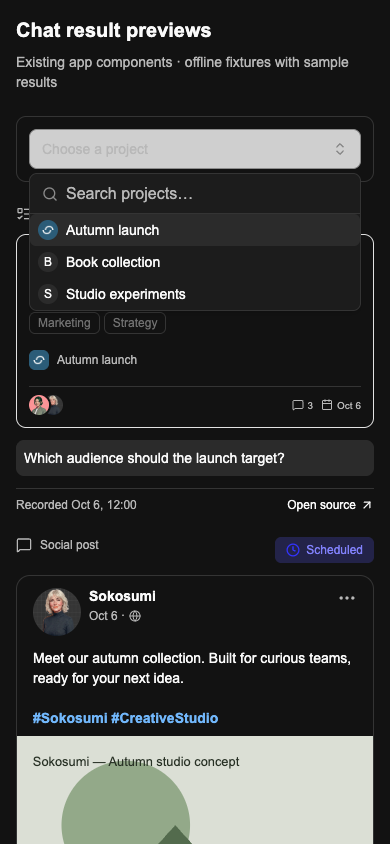
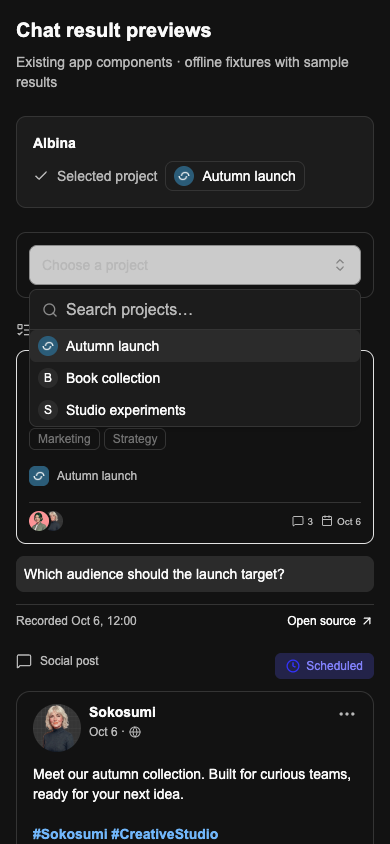
fix(chat): polish project selection replies

diff --git a/apps/web/src/components/chat/project-selection-message.tsx b/apps/web/src/components/chat/project-selection-message.tsx
@@ -1,0 +1,76 @@
+"use client";
+
+import { Check } from "lucide-react";
+import Link from "next/link";
+import { useTranslations } from "next-intl";
+import { ProjectAvatar } from "@/app/projects/components/project-avatar";
+
+interface SelectedProject {
+  id: string;
+  name: string;
+  logo?: string | null;
+}
+
+/** Recognize only the exact reply format emitted by the project picker. */
+export function readProjectSelectionReply(
+  content: string,
+): SelectedProject | null {
+  const lines = content.split("\n");
+  if (lines.length === 3) {
+    for (const [index, prefix] of [
+      "Continue this request: ",
+      "Your question: ",
+    ].entries()) {
+      if (!lines[index].startsWith(prefix)) return null;
+      try {
+        if (typeof JSON.parse(lines[index].slice(prefix.length)) !== "string")
+          return null;
+      } catch {
+        return null;
+      }
+    }
+  } else if (lines.length !== 1) return null;
+  const match = lines
+    .at(-1)
+    ?.match(
+      /^Use project ("(?:[^"\\]|\\.)*") \(project ID: ([0-9a-f]{8}-[0-9a-f]{4}-[0-9a-f]{4}-[0-9a-f]{4}-[0-9a-f]{12})\)\.$/i,
+    );
+  if (!match) return null;
+  try {
+    const name: unknown = JSON.parse(match[1]);
+    return typeof name === "string" && name.trim()
+      ? { id: match[2], name }
+      : null;
+  } catch {
+    return null;
+  }
+}
+
+export function ProjectSelectionMessage({
+  project,
+}: {
+  project: SelectedProject;
+}) {
+  const t = useTranslations("Components.ChatResults.selection");
+  return (
+    <div
+      className="flex min-w-0 max-w-full flex-wrap items-center gap-2 text-sm"
+      data-testid="project-selection-message"
+    >
+      <Check aria-hidden className="text-muted-foreground size-4 shrink-0" />
+      <span className="text-muted-foreground">{t("selectedProject")}</span>
+      <Link
+        href={`/projects/${project.id}`}
+        className="bg-card-background hover:bg-card-background-hover focus-visible:ring-ring inline-flex min-w-0 max-w-full items-center gap-2 rounded-md border px-2 py-1 outline-none focus-visible:ring-2"
+        title={project.name}
+      >
+        <ProjectAvatar
+          name={project.name}
+          logo={project.logo}
+          className="size-5 shrink-0"
+        />
+        <span className="truncate font-medium">{project.name}</span>
+      </Link>
+    </div>
+  );
+}

diff --git a/apps/web/src/components/chat/project-selection-message.test.tsx b/apps/web/src/components/chat/project-selection-message.test.tsx
@@ -1,0 +1,55 @@
+import { renderToStaticMarkup } from "react-dom/server";
+import { describe, expect, it, vi } from "vitest";
+
+vi.mock("next-intl", () => ({ useTranslations: () => (key: string) => key }));
+
+import {
+  ProjectSelectionMessage,
+  readProjectSelectionReply,
+} from "./project-selection-message";
+
+const id = "01a09b66-77dd-740e-889e-d4ed60b6007b";
+const reply = `Use project "albina" (project ID: ${id}).`;
+describe("project selection reply presentation", () => {
+  it("shows a project avatar and linked name without exposing the raw ID as text", () => {
+    const project = readProjectSelectionReply(reply);
+    expect(project).toEqual({ id, name: "albina" });
+    if (!project) throw new Error("Missing project");
+    const html = renderToStaticMarkup(
+      <ProjectSelectionMessage project={project} />,
+    );
+    expect(html).toContain(`href="/projects/${id}"`);
+    expect(html).toContain('data-testid="project-avatar"');
+    expect(html).toContain("albina");
+    expect(html).not.toContain("project ID:");
+    expect(html).not.toContain("Use project");
+  });
+  it("hides continuation context in the personal timeline while preserving the selected project", () => {
+    expect(
+      readProjectSelectionReply(
+        `Continue this request: "Generate a book"\nYour question: "Which project?"\n${reply}`,
+      ),
+    ).toEqual({ id, name: "albina" });
+  });
+  it("decodes escaped project names as text", () => {
+    const name = 'Books "A" [Launch] <script>\nIdeas';
+    const project = readProjectSelectionReply(
+      `Use project ${JSON.stringify(name)} (project ID: ${id}).`,
+    );
+    expect(project?.name).toBe(name);
+    if (!project) throw new Error("Missing project");
+    expect(
+      renderToStaticMarkup(<ProjectSelectionMessage project={project} />),
+    ).not.toContain("<script>");
+  });
+  it.each([
+    "A normal chat message",
+    `${reply}\nMore text`,
+    `More text\n${reply}`,
+    `Continue this request: not-json\nYour question: "Which?"\n${reply}`,
+    `Use project "albina" (project ID: https://evil.test).`,
+    `Use project "" (project ID: ${id}).`,
+  ])("leaves ordinary or malformed messages untouched: %s", (content) => {
+    expect(readProjectSelectionReply(content)).toBeNull();
+  });
+});

diff --git a/apps/web/src/components/chat/result-previews.tsx b/apps/web/src/components/chat/result-previews.tsx
@@ -40,6 +40,7 @@ import { FileChipMiniPreview } from "@/components/ui/file-chip-mini-preview";
 import { useSession } from "@/lib/auth/auth.client";
 import { cn } from "@/lib/utils";
 import { classifyFilePreview } from "@/lib/utils/file-preview";
+import { ProjectSelectionMessage } from "./project-selection-message";
 import { selectChatProjectAction } from "./select-project-action";
 
 const icons = {
@@ -478,18 +479,19 @@ function ChatProjectSelection({
       setBusy(false);
     }
   }
+  const selectedProject = options.find((project) => project.id === selected);
   return (
     <section
       className="bg-background w-full max-w-sm space-y-2 rounded-lg border p-3"
       aria-label={t("label")}
     >
-      {selected ? (
-        <p role="status" className="text-sm">
-          {t("selected", {
-            name:
-              options.find((project) => project.id === selected)?.name ?? "",
-          })}
-        </p>
+      {selectedProject ? (
+        <div
+          role="status"
+          aria-label={t("selected", { name: selectedProject.name })}
+        >
+          <ProjectSelectionMessage project={selectedProject} />
+        </div>
       ) : options.length && source ? (
         <fieldset disabled={busy} className="min-w-0">
           <TaskProjectSelect

diff --git a/apps/web/src/app/(app)/personal-assistant/components/chat/message-row.tsx b/apps/web/src/app/(app)/personal-assistant/components/chat/message-row.tsx
@@ -5,6 +5,10 @@ import Link from "next/link";
 import { useFormatter, useTranslations } from "next-intl";
 import { useState } from "react";
 
+import {
+  ProjectSelectionMessage,
+  readProjectSelectionReply,
+} from "@/components/chat/project-selection-message";
 import { ResultPreviews } from "@/components/chat/result-previews";
 import Markdown from "@/components/markdown";
 import { Avatar, AvatarFallback, AvatarImage } from "@/components/ui/avatar";
@@ -46,6 +50,7 @@ function UserRow({
   muted?: boolean;
 }) {
   const timestamp = useTimestamp();
+  const selectedProject = readProjectSelectionReply(content);
   return (
     <div className="group/message flex w-full justify-end gap-3 px-4 py-0.5">
       <div className="flex max-w-[75%] flex-col items-end gap-0.5">
@@ -55,7 +60,11 @@ function UserRow({
             muted && "opacity-70",
           )}
         >
-          {content}
+          {selectedProject ? (
+            <ProjectSelectionMessage project={selectedProject} />
+          ) : (
+            content
+          )}
         </div>
         <time
           dateTime={createdAt}

diff --git a/apps/web/src/app/(app)/chat/components/room-message-row.tsx b/apps/web/src/app/(app)/chat/components/room-message-row.tsx
@@ -83,6 +83,10 @@ import {
 import { AuroraOrb } from "@/components/aurora-orb";
 import type { ComposerChannelOption } from "@/components/chat/composer-suggestions";
 import { EmojiPicker } from "@/components/chat/emoji-picker";
+import {
+  ProjectSelectionMessage,
+  readProjectSelectionReply,
+} from "@/components/chat/project-selection-message";
 import { ResultPreviews } from "@/components/chat/result-previews";
 import { MessageSkillChips } from "@/components/chat/skill-chip";
 import {
@@ -828,6 +832,15 @@ function ChannelMessageBody({
   const skipBodyClamp = hasLargeSoloImageAttachment(content);
   const { expanded, toggleExpanded, overflows, contentRef } =
     useClampedOverflow({ cacheKey: `body:${messageId}`, resetKey: content });
+
+  const selectedProject = readProjectSelectionReply(content);
+  if (selectedProject)
+    return (
+      <div data-testid="room-message-body">
+        <ProjectSelectionMessage project={selectedProject} />
+        {trailing}
+      </div>
+    );
 
   // Skip Markdown/prose for jumbo — prose-sm would crush the large font size.
   if (isJumboEmoji) {

diff --git a/apps/web/src/app/(app)/chat/components/room-message-row.test.tsx b/apps/web/src/app/(app)/chat/components/room-message-row.test.tsx
@@ -320,6 +320,22 @@ function hoverCardTriggers() {
 }
 
 describe("ChatMessageRow", () => {
+  it("renders a project-picker reply as a compact linked project without the technical ID", () => {
+    const projectId = "01a09b66-77dd-740e-889e-d4ed60b6007b";
+    renderRow({
+      message: userMessage({
+        content: `Use project "albina" (project ID: ${projectId}).`,
+      }),
+    });
+    const body = screen.getByTestId("room-message-body");
+    expect(within(body).getByRole("link", { name: /albina/ })).toHaveAttribute(
+      "href",
+      `/projects/${projectId}`,
+    );
+    expect(within(body).getByTestId("project-avatar")).toBeInTheDocument();
+    expect(body).not.toHaveTextContent(projectId);
+    expect(body).not.toHaveTextContent("Use project");
+  });
   it("skips re-rendering for an identical prop set", () => {
     const message = userMessage();
     const coworkersById = new Map<string, ChatRoomCoworkerParticipant>();

diff --git a/apps/web/src/components/chat/project-selection.test.tsx b/apps/web/src/components/chat/project-selection.test.tsx
@@ -66,7 +66,7 @@ describe("chat project selector", () => {
         projectId: id,
       }),
     );
-    await screen.findByText("selected Books");
+    await screen.findByRole("status", { name: "selected Books" });
     expect(screen.queryByRole("combobox")).toBeNull();
     expect(refresh).toHaveBeenCalledTimes(1);
   });
@@ -80,6 +80,6 @@ describe("chat project selector", () => {
     await choose();
     await waitFor(() => expect(select).toHaveBeenCalledTimes(2));
     expect(select.mock.calls[0][0]).toEqual(select.mock.calls[1][0]);
-    await screen.findByText("selected Books");
+    await screen.findByRole("status", { name: "selected Books" });
   });
 });

diff --git a/docs/superpowers/plans/2026-10-06-chat-result-previews.md b/docs/superpowers/plans/2026-10-06-chat-result-previews.md
@@ -267,3 +267,9 @@ Added `project_selection` to the existing `preview_result` contract. The bot sup
 Web reuses `TaskProjectSelect` search and `ProjectAvatar`, with its optional no-project choice omitted. A selection rehydrates through Core before sending a normal user reply with the actual project ID. Room replies mention the original bot, retain thread scope and quote its question. Personal replies include the originating request/question and reject an active-workspace mismatch. Server-derived submission IDs make the same choice idempotent across retries and card remounts; no generation/publication action runs directly from the component.
 
 Focused checks: Core preview/metadata/turn endpoint tests 22 passed; Web renderer, actual picker click/retry and selection action tests 22 passed; bot contracts 249 passed; root check/typecheck and locale parity passed. Review findings about remount retries and personal continuation context were fixed and re-reviewed without remaining findings. Desktop/light and mobile/dark fixture screenshots show the actual picker; zero browser exceptions and no horizontal overflow. These are fixture interactions, not a newly submitted live bot conversation.
+
+### Project choice reply polish
+
+The picker’s technical reply remains intact for the bot, while room and personal chat render its exact known format as a compact selected-project chip with the existing project avatar and project link. Personal continuation context is also kept out of the visible reply. Existing persisted replies receive the same display without a migration; ordinary or malformed messages retain their normal rendering. The picker’s completed state reuses this presentation with the authorized project logo.
+
+Proof: 172 focused Web tests passed, including actual room-row integration, picker clicks/retry, legacy and personal reply parsing, escaped names, and ordinary-message fallbacks. Root check/typecheck and locale parity passed. Updated desktop/light and mobile/dark fixtures show the selected reply; zero browser exceptions and no horizontal overflow. No new live bot messages were sent.
